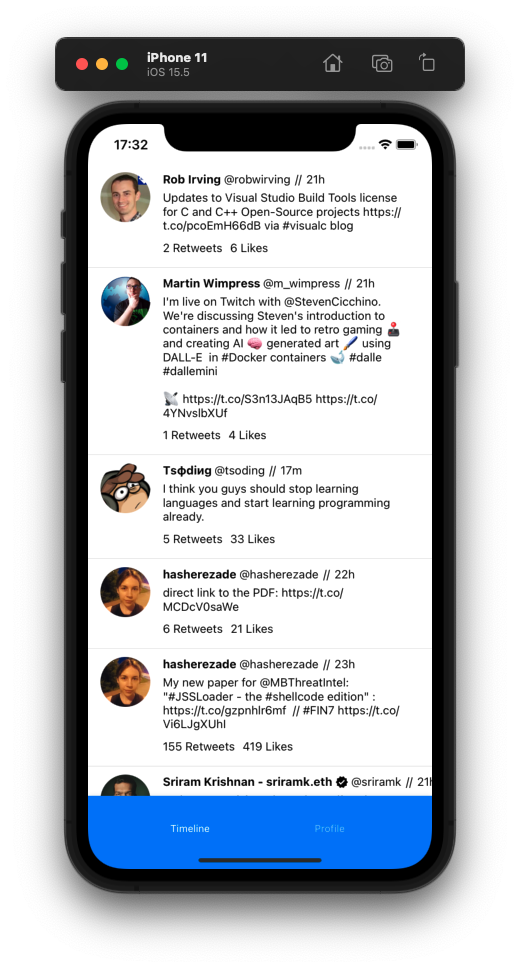
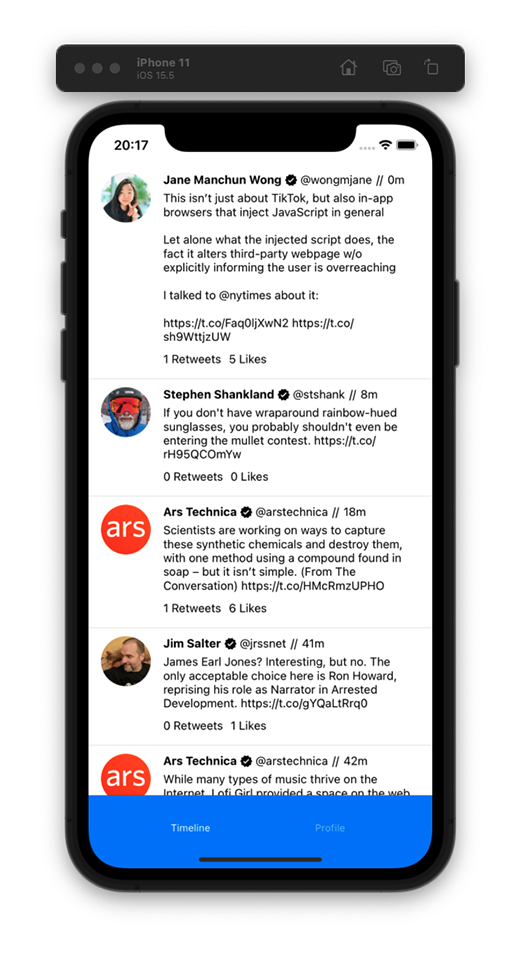
timeline is now sorted chronologically :^)

Changed region(s): [[0.0615, 0.031, 0.9231, 0.9607]]

diff --git a/screens/Timeline.jsx b/screens/Timeline.jsx
@@ -43,15 +43,12 @@ const Timeline = (props) => {
       .then((res) => {
         const userFollowing = res.data.data;
         let userFollowingTweets = new Array();
-        const startTime = moment().subtract(1, "days").toISOString();
+        const startTime = moment().subtract(12, "hours").toISOString();
 
-        // this isn't a fantastic way of doing following fetching,
-        // because it very quickly rate limits me. though with twitter
-        // not providing home_timeline without authentication i have to do it this way.
+        // this very quickly rate limits us.
+        // though with twitter not providing home_timeline without authentication i have to do it this way.
 
         // NEW IDEA: Maybe user should 'follow' profiles themselves to cut down on requests
-
-        // TODO: organize tweets based on timestamp rather than user
 
         for (let u = 0; u < user.public_metrics.following_count; u++) {
           axios
@@ -71,7 +68,7 @@ const Timeline = (props) => {
               }
             )
             .then((res) => {
-              for (let i = 0; i < res.data.data.length; i++) {
+              for (let i = 0; i < Object.keys(res.data.data).length; i++) {
                 const url = userFollowing[u].profile_image_url;
                 let imageType = url.substring(url.length - 4);
                 let userProfileImage = url.substring(0, url.length - 10);
@@ -93,7 +90,15 @@ const Timeline = (props) => {
                 };
                 userFollowingTweets.push(userTweet);
               }
+              userFollowingTweets.sort((a, b) => {
+                return (
+                  new Date(b.tweet.created_at) - new Date(a.tweet.created_at)
+                );
+              });
               setUserTimeline(userFollowingTweets);
+            })
+            .catch((err) => {
+              // Do nothing
             });
         }
         setLoading(false);
@@ -150,7 +155,7 @@ const Timeline = (props) => {
               <FlatList
                 data={userTimeline}
                 renderItem={renderTweet}
-                keyExtractor={(item) => item.id}
+                keyExtractor={(item) => item.tweet.id}
                 directionalLockEnabled={true}
                 showsHorizontalScrollIndicator={false}
               />
